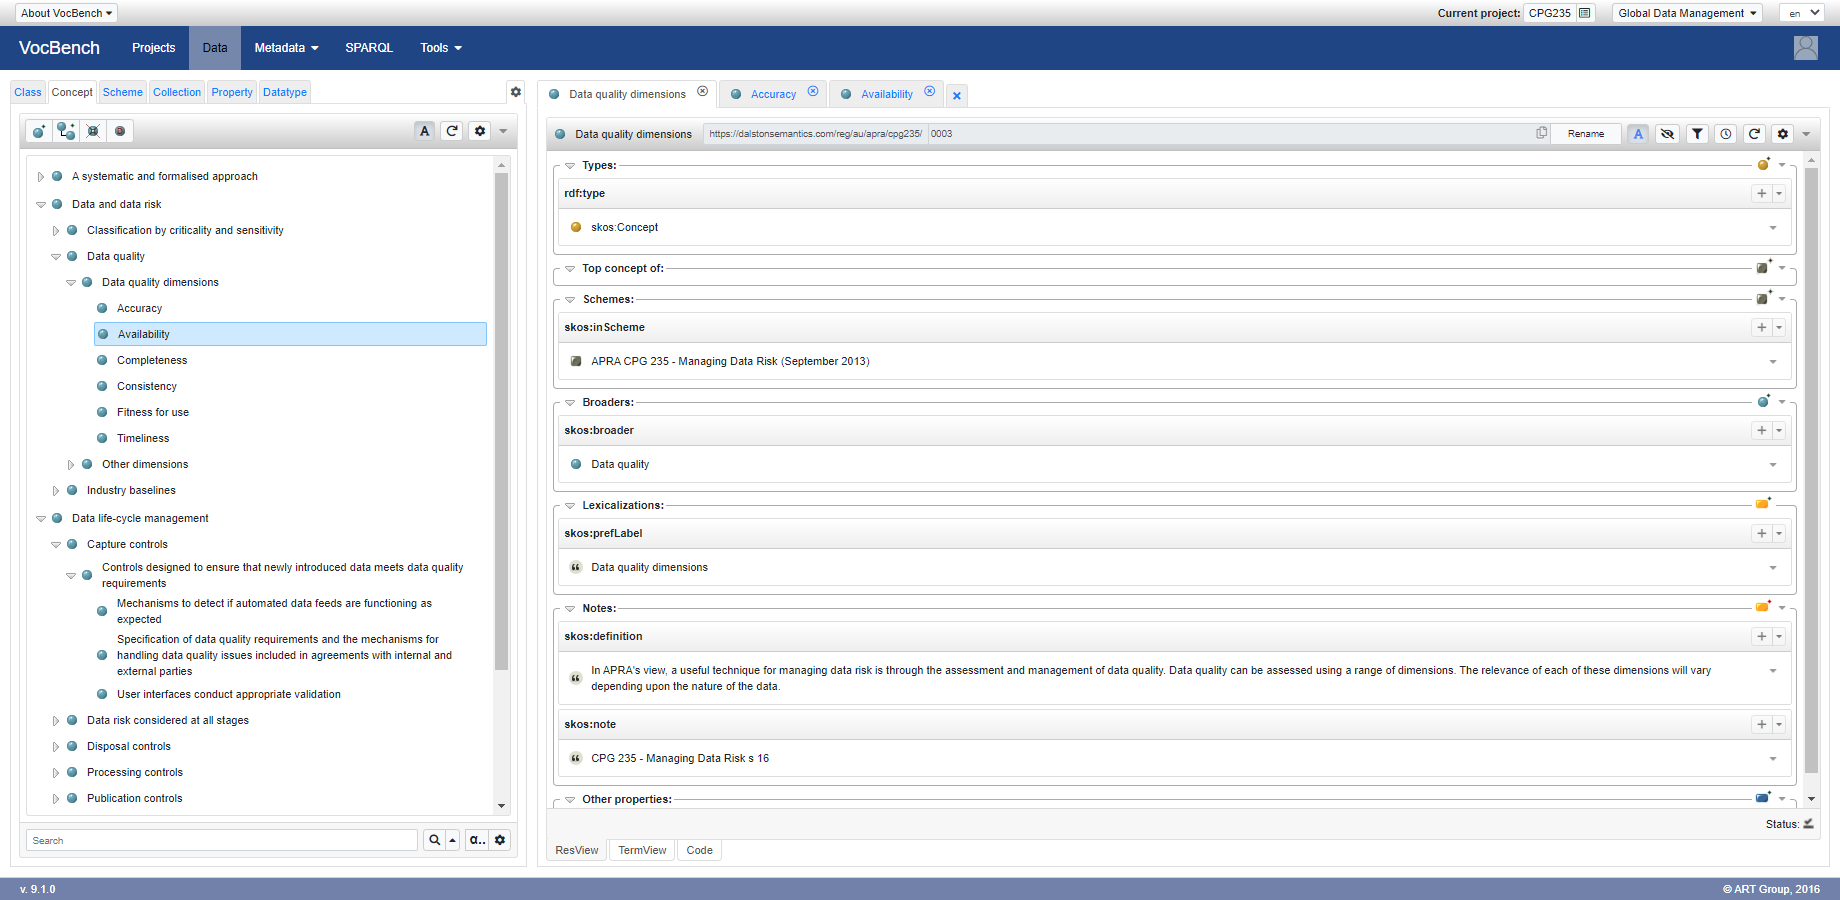
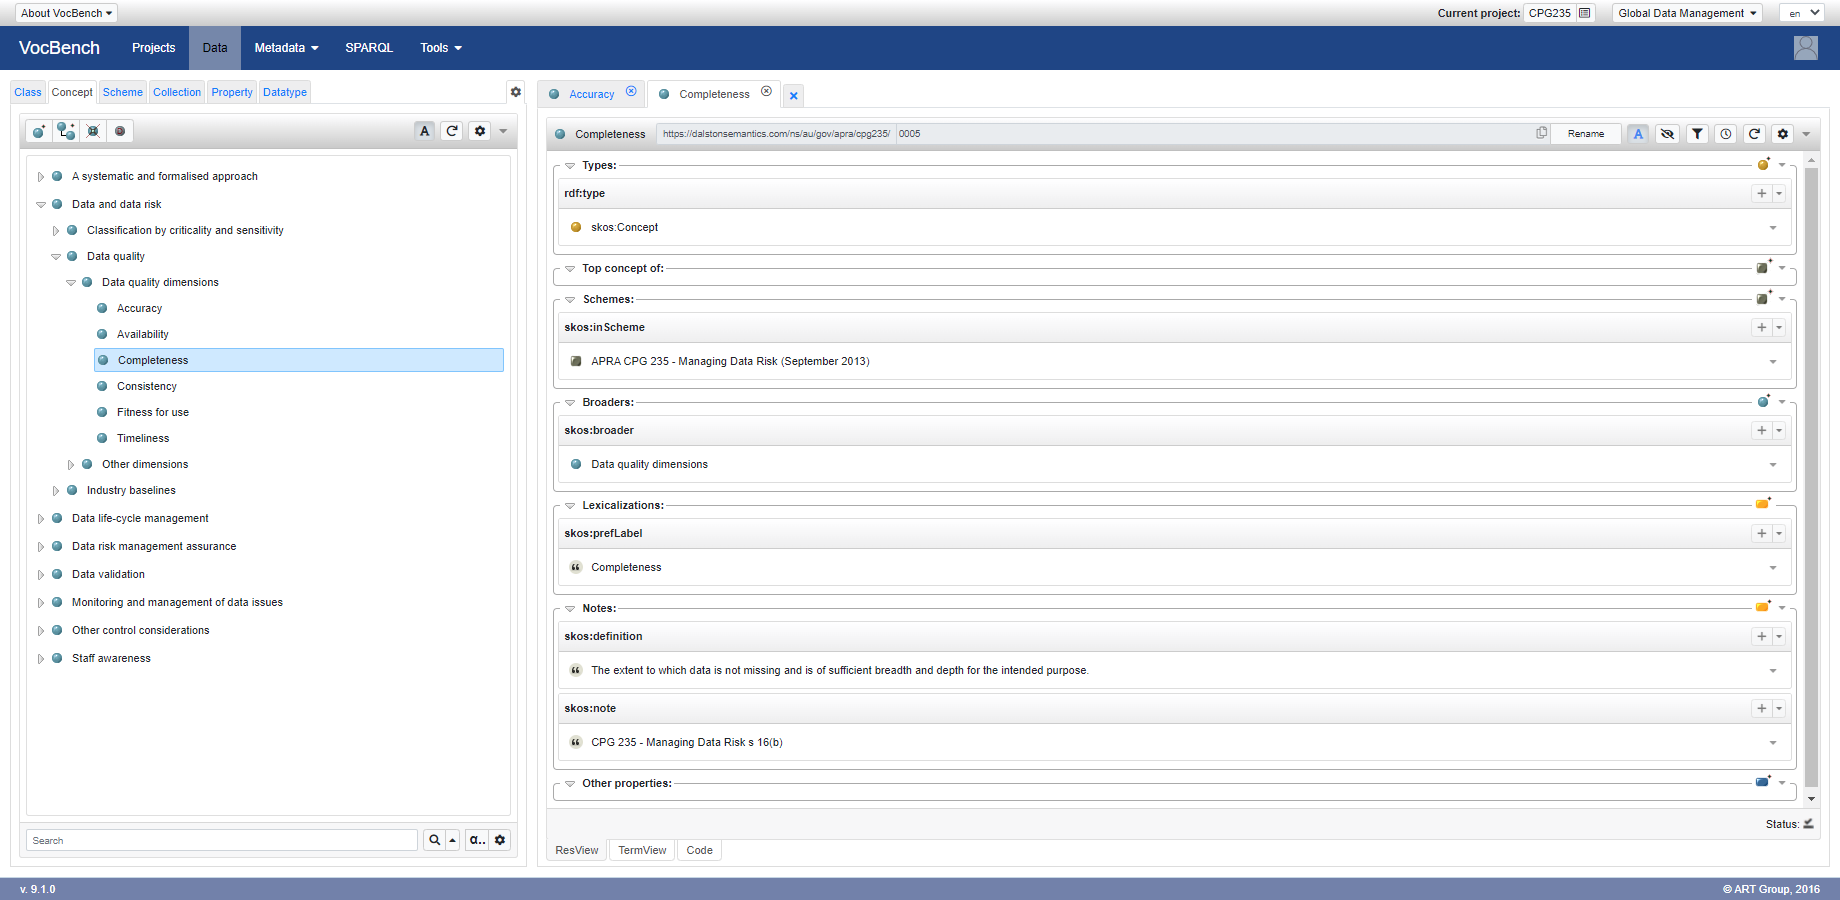
Updates namespace. Cleans up screenshots.

diff --git a/cpg235.py b/cpg235.py
@@ -7,7 +7,7 @@ df = pd.read_csv('cpg235.csv', index_col = '@id', keep_default_na = True)
 namespace_manager = NamespaceManager(Graph())
 namespace_manager.bind('skos', SKOS, override = True)
 namespace_manager.bind('dcterms', DCTERMS, override = True)
-namespace_manager.bind('cpg235', Namespace('https://dalstonsemantics.com/reg/au/apra/cpg235/'), override = True)
+namespace_manager.bind('cpg235', Namespace('https://dalstonsemantics.com/ns/au/gov/apra/cpg235/'), override = True)
 namespace_manager.bind('pav', Namespace('http://purl.org/pav/'), override = True)
 g = rdfpandas.to_graph(df, namespace_manager)
 ttl = g.serialize(format = 'turtle')

diff --git a/README.md b/README.md
@@ -4,11 +4,7 @@ This taxonomy is derived from [CPG 235 - Managing Data Risk](https://www.apra.go
 
 Use it with [Taxonomies for Confluence](https://dalstonsemantics.com/services/taxonomies-for-confluence/) to index [Confluence](https://www.atlassian.com/software/confluence) pages and track alignment with CPG 235.
 
-![CPG 235 in Taxonomies for Confluence - Import](cpg235-confluence-import.png "CPG 235 in Taxonomies for Confluence - Import")
-
-![CPG 235 in Taxonomies for Confluence - Index](cpg235-confluence-index.png "CPG 235 in Taxonomies for Confluence - Index")
-
-![CPG 235 in Taxonomies for Confluence - Track](cpg235-confluence-track.png "CPG 235 in Taxonomies for Confluence - Track")
+![CPG 235 in Taxonomies for Confluence](cpg235-confluence-import.png "CPG 235 in Taxonomies for Confluence")
 
 Developed with [Simple Knowledge Organization System (SKOS)](https://www.w3.org/2004/02/skos/) this taxonomy can also be imported and published with [controlled vocabulary tools](https://github.com/gbv/bartoc.org/wiki/Software-for-controlled-vocabularies) to improve staff awareness of data risks.
 
